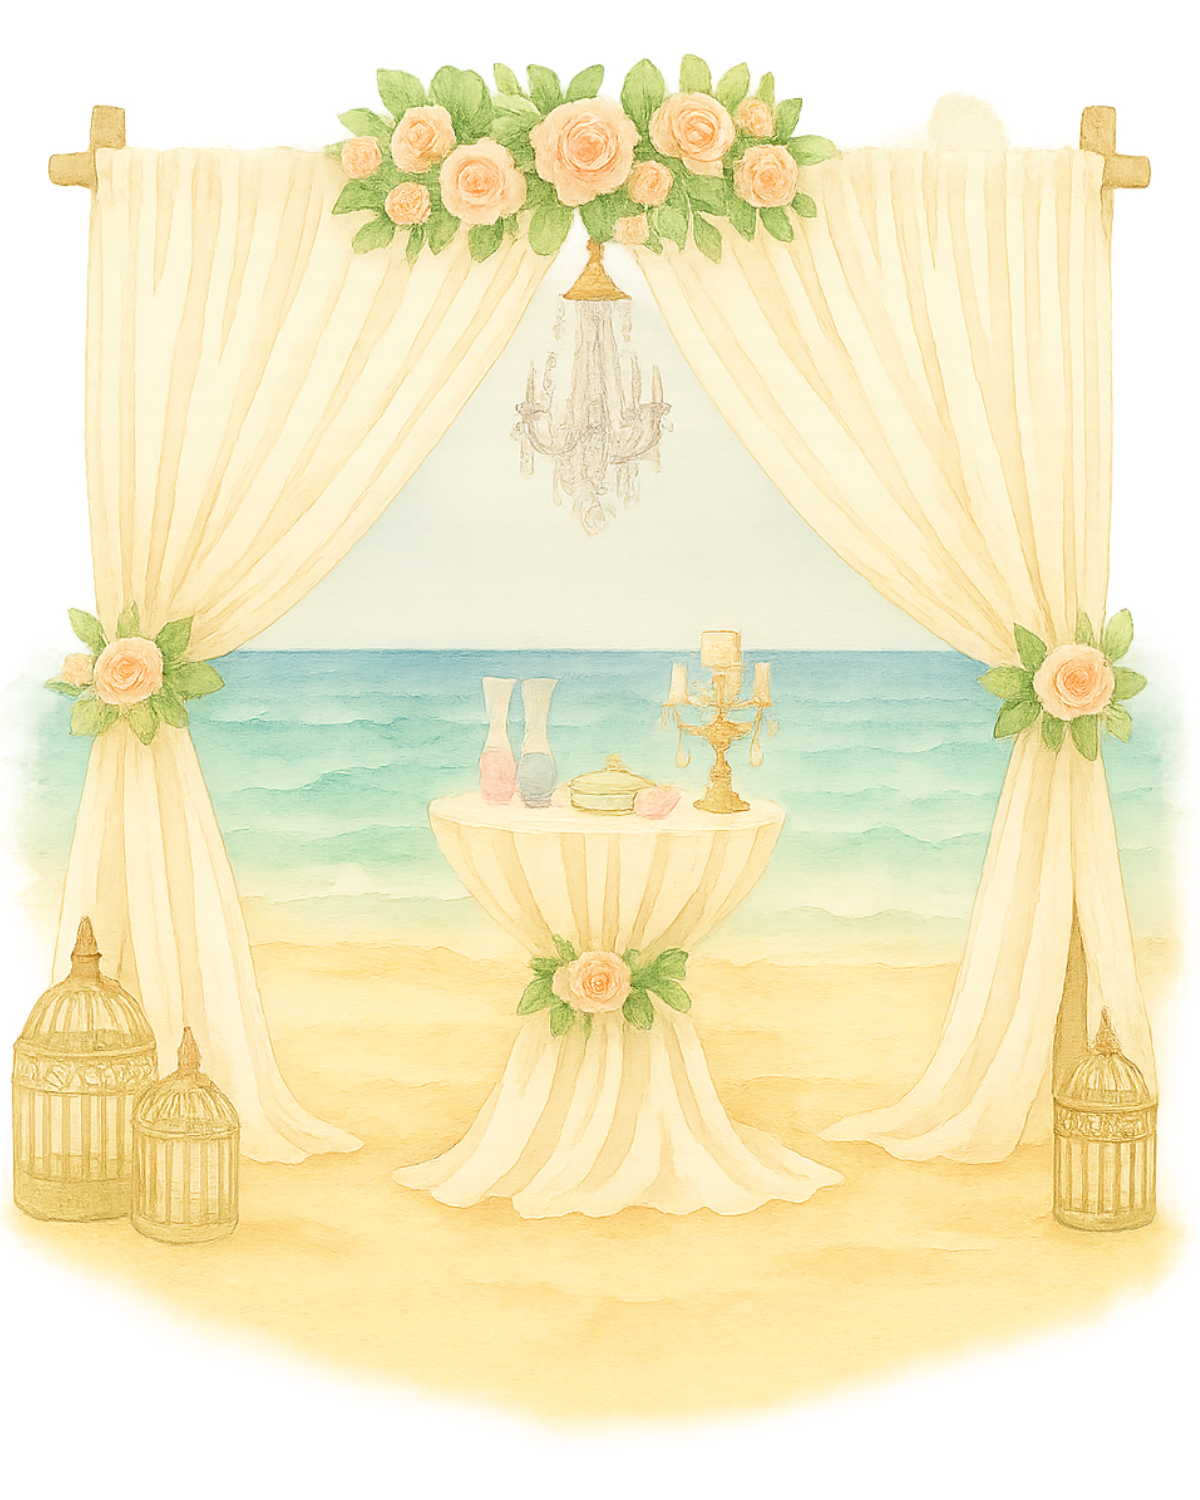
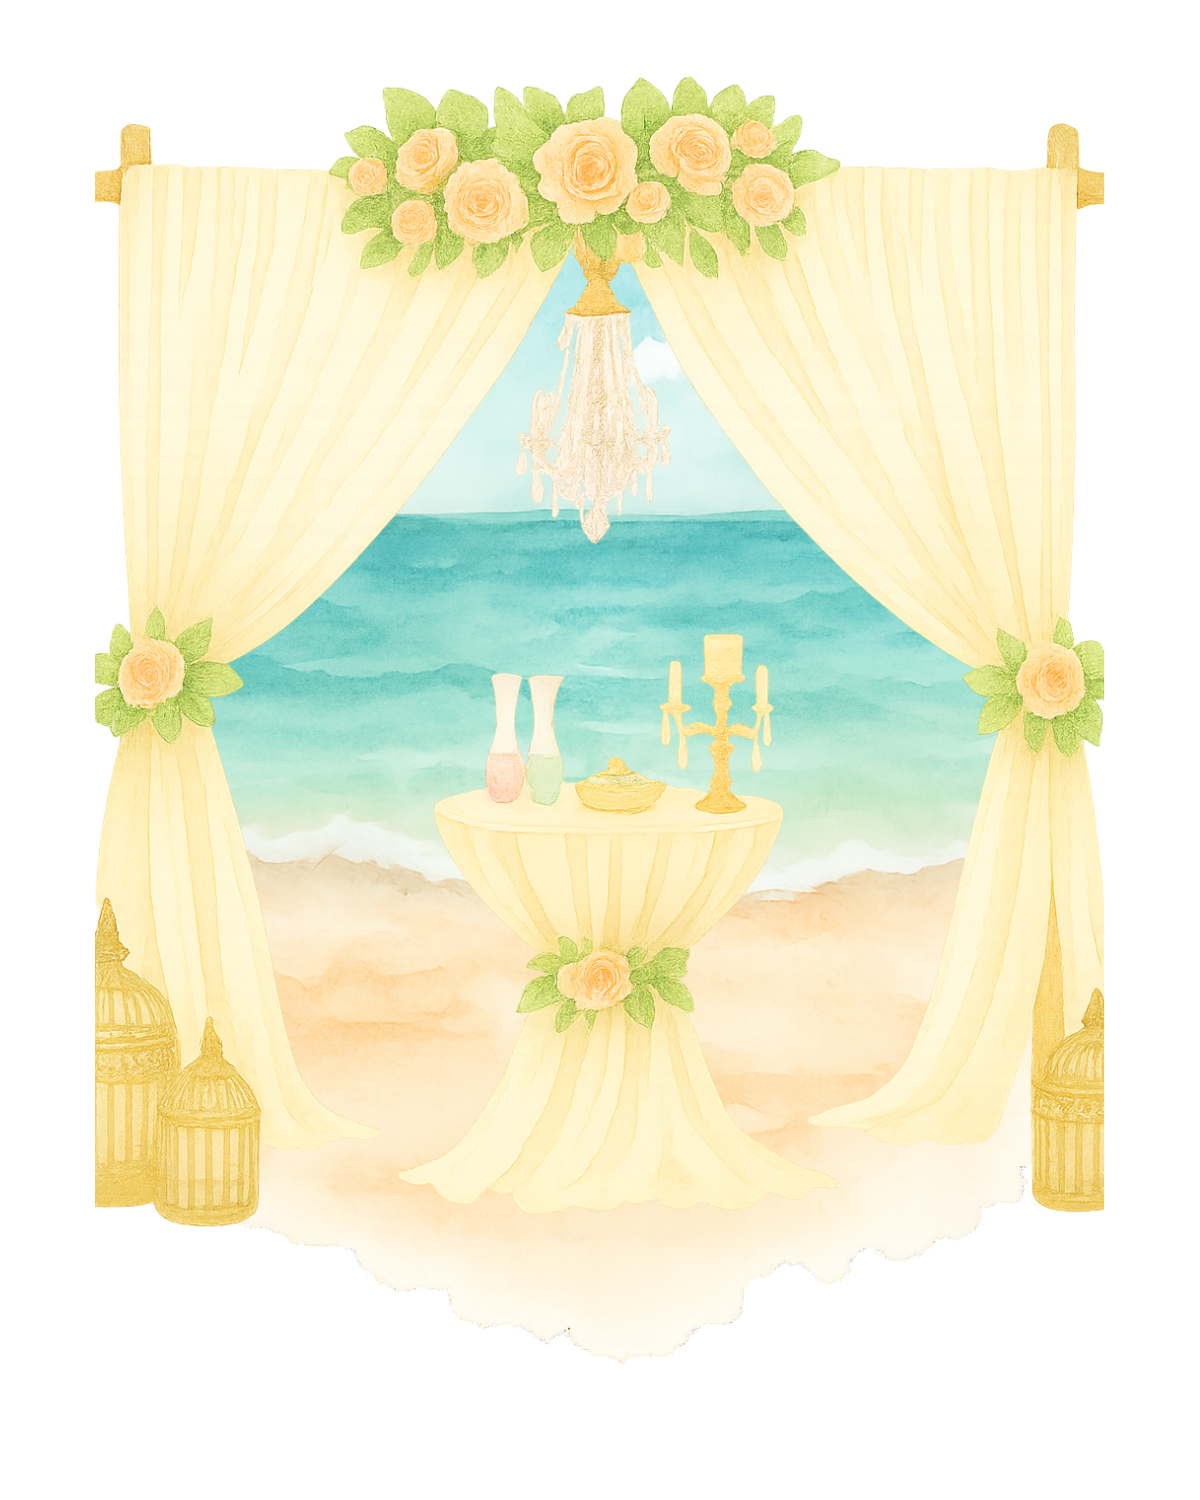
cambios

diff --git a/style.css b/style.css
@@ -4,7 +4,7 @@
     --background-color: white;
     --amarillo: #fff7cc;
     --beige:#faefb2;
-    --text-color: #48D1CC;
+    --text-color: #2FA2A1;
     --accent-color: white;
     
     /* Tipografías */
@@ -103,7 +103,6 @@
     display: flex;
     justify-content: center;
     align-items: center;
-    font-family: var(--font-title);
     font-size: 2rem;
     color: var(--text-color);
     cursor: pointer;
@@ -112,7 +111,8 @@
   #seal h2{
     margin: 0;
     font-size: 2.5rem;
-    color: #48D1CC;
+    color: #2FA2A1;
+    font-family: var(--font-body);
   }
   /* Estado de apertura */
   .open #envelope-top {
@@ -167,11 +167,11 @@
     position: relative;
   }
   #music-section h2{
-    color: 	#48D1CC;
+    color: 	#2FA2A1;
   }
   button {
     background: rgb(248, 244, 237);
-    color: 	#48D1CC;
+    color: 	#2FA2A1;
     border: none;
     padding: 10px 20px;
     margin-top: 20px;
@@ -185,6 +185,7 @@
   }
   button:hover {
     background: var(--text-color);
+    color: white;
   }
   
   /* PROGRESO DE MÚSICA */
@@ -200,7 +201,7 @@
   -webkit-appearance: none;
   width: 80%;
   height: 8px;
-  background: 	#48D1CC; /* Color pastel base */
+  background: 	#2FA2A1; /* Color pastel base */
   border-radius: 5px;
   outline: none;
   margin: 10px 0;
@@ -251,7 +252,7 @@
     margin-top: -35px;
   }
   #marriage-announcement {
-    background-color: rgba(119, 119, 119, 0.212); /* blanco con opacidad */
+    background-color: rgb(119 119 119 / 27%); /* blanco con opacidad */
     padding: 20px;
     border-radius: 10px;
   }
@@ -259,7 +260,6 @@
   #marriage-announcement {
     text-align: center;
     margin-bottom: 30px;
-    padding: 0;
   }
   #marriage-announcement h2 {
     font-family: var(--font-title);
@@ -283,7 +283,7 @@
     margin-top: 20px;
   }
   .unit {
-    background: rgba(119, 119, 119, 0.212);
+    background: rgb(119 119 119 / 27%);
     padding: 0;
     border-radius: 100%;
     width: 100px;
@@ -309,7 +309,7 @@
     padding: 12px 24px;
     font-size: 0.9rem;
     background-color: var(--accent-color);
-    color: #48D1CC;
+    color: #2FA2A1;
     border: none;
     border-radius: 8px;
     cursor: pointer;
@@ -535,11 +535,11 @@
   
   #wishes-section h2{
     font-size: var(--font-size-title-small);
-    color: #48D1CC;
+    color: #2FA2A1;
   }
   #wishes-section p{
     font-size: var(--font-size-text);
-    color: #48D1CC;
+    color: #2FA2A1;
   }  
   #show-wishes button {
     margin-top: 10px;
@@ -568,7 +568,7 @@
     font-family: var(--font-body, Arial, sans-serif);
     font-size: 1rem;
     background-color: #fff;
-    color: #48D1CC;
+    color: #2FA2A1;
     box-shadow: inset 0 1px 2px rgba(0,0,0,0.05);
   }
   
@@ -581,7 +581,7 @@
     padding: 12px 24px;
     font-size: 1.2rem;
     background-color: var(--accent-color);
-    color: #48D1CC;
+    color: #2FA2A1;
     border: none;
     border-radius: 8px;
     cursor: pointer;
@@ -768,7 +768,7 @@
   }
   .hotel-toggle {
     background-color: var(--accent-color);
-    color: #48D1CC;
+    color: #2FA2A1;
     padding: 12px 24px;
     font-size: 1rem;
     font-family: var(--font-body);
@@ -794,11 +794,11 @@
   .hotel-content p {
     font-size: var(--font-size-text);
     line-height: 1.5;
-    color: #48D1CC;
+    color: #2FA2A1;
   }
   
   .hotel-content a {
-    color: #48D1CC;
+    color: #2FA2A1;
     text-decoration: none;
   }
   .hidden {

diff --git a/script.js b/script.js
@@ -64,7 +64,7 @@ document.addEventListener('DOMContentLoaded', () => {
 
 //--- Botón para añadir al calendario ---
 window.addToCalendar = function () {
-  const calendarURL = "https://calendar.google.com/calendar/event?action=TEMPLATE&tmeid=NXU4ZjVtMmtobHNsanI3aXJnN3ZuOWlqZ20gY182OTRhZWE0ODlhN2FkZTJiYzRmYjRiNGExYTE2ZmY3ZDY2ZjAzNzFlMTgwY2I1MzZmM2M3YzE2NGUxZWMwOGIxQGc&tmsrc=c_694aea489a7ade2bc4fb4b4a1a16ff7d66f0371e180cb536f3c7c164e1ec08b1%40group.calendar.google.com";
+  const calendarURL = "https://calendar.google.com/calendar/render?action=TEMPLATE&text=Nos+casamos+Brenda+%26+Francisco&dates=20260226T223000Z/&details=¡Acompáñanos+a+celebrar+el+amor+en+Cancún!&location=Hotel+Emporio+Cancún&sf=true&output=xml";
   window.open(calendarURL, "_blank");
 }
 

diff --git a/config.js b/config.js
@@ -44,7 +44,7 @@ export const eventData = {
       }
     },  
 
-    finalPhoto: "/images/pareja-final.png",
+    finalPhoto: "/images/foto-final.png",
     finalMessage: "Acompáñanos en el inicio de nuestro Felices Para Siempre",
     rsvp: {
       rsvpImage: "/images/rsvp.png",
